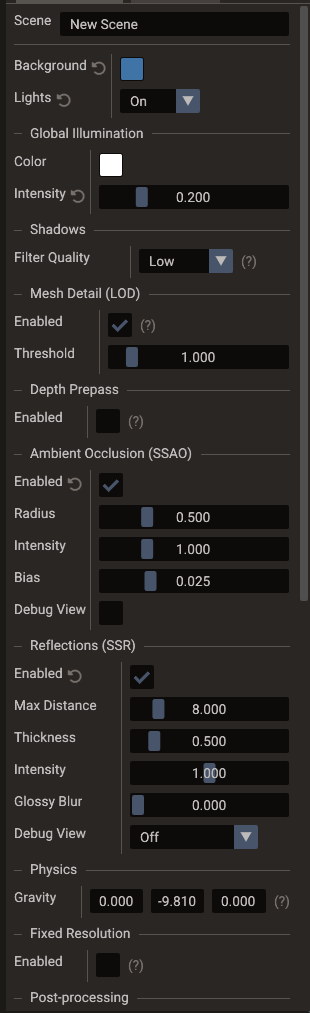
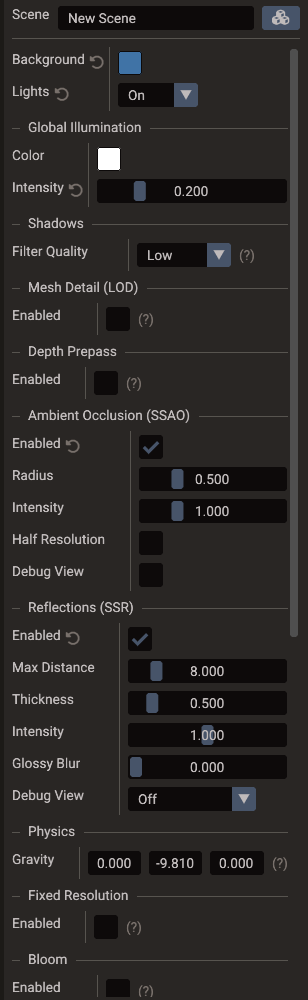
SSAO pages describe GTAO, without Bias, and a new scene settings screenshot

Changed region(s): [[0.0292, 0.0, 0.9935, 1.0]]

diff --git a/docs/manual/rendering-pipeline.md b/docs/manual/rendering-pipeline.md
@@ -453,18 +453,20 @@ light is naturally blocked. Like Godot, Unity, and Unreal, it modulates only the
 and spot lights is left untouched — so it reads as soft contact shading rather than a
 second shadow.
 
-Each frame the render system runs a small depth pre-pass for the main camera, derives
-occlusion from a rotated hemisphere kernel, blurs it, and the lit mesh shader multiplies
-the result into its ambient term. The blur leaves out samples across a depth edge, so
-occlusion stays on its own surface instead of haloing around silhouettes.
+The occlusion is ground truth ambient occlusion (GTAO). Each frame the render system runs
+a small depth pre-pass for the main camera. Along two screen directions per pixel, it finds
+the highest surface on each side within the radius, and the part of the hemisphere above
+those horizons, weighted toward the surface normal, is what stays lit. A 4×4 pattern turns
+the directions from pixel to pixel and a 4×4 blur combines them, leaving out samples across
+a depth edge, so occlusion stays on its own surface instead of haloing around silhouettes.
+The lit mesh shader multiplies the result into its ambient term.
 
 SSAO is a scene setting:
 
 ```cpp
 scene.setSSAOEnabled(true);
-scene.setSSAORadius(0.5f);     // view-space sampling radius (world units)
-scene.setSSAOIntensity(1.0f);  // strength (exponent on the occlusion factor)
-scene.setSSAOBias(0.025f);     // depth bias to avoid self-occlusion acne
+scene.setSSAORadius(0.5f);     // how far occluders count (world units)
+scene.setSSAOIntensity(1.0f);  // exponent on the visibility
 scene.setSSAOHalfResolution(true); // a quarter of the pixels, a little softer
 ```
 
@@ -472,19 +474,17 @@ scene.setSSAOHalfResolution(true); // a quarter of the pixels, a little softer
 scene.ssaoEnabled = true
 scene.ssaoRadius = 0.5
 scene.ssaoIntensity = 1.0
-scene.ssaoBias = 0.025
 scene.ssaoHalfResolution = true
 ```
 
 In the editor, the same controls live under **Scene → Ambient Occlusion (SSAO)** in the
 Properties window, including a **Debug View** toggle that renders the raw AO buffer so you
-can tune radius/intensity/bias directly.
+can tune radius and intensity directly.
 
 | Parameter | Effect |
 | --- | --- |
-| **Radius** | How far samples reach in view space — larger is broader/softer, smaller stays in tight creases |
-| **Intensity** | Darkening strength; raise to make occlusion more pronounced |
-| **Bias** | Pushes samples off the surface to stop flat areas self-occluding (acne) |
+| **Radius** | How far occluders count, in world units; they fade out over the last 30% of it. Larger is broader and softer, smaller stays in tight creases |
+| **Intensity** | Exponent on the visibility; raise it to make occlusion more pronounced. Around `2` comes closer to ray-traced AO |
 | **Half Resolution** | Computes and blurs the occlusion at half width and height, for about a quarter of the cost, and lit meshes upsample it. The depth pre-pass stays full size |
 
 Because the effect only touches ambient light, it is most visible with a strong ambient
@@ -497,7 +497,10 @@ scene lit mainly by direct light.
     reconstructed from depth when SSAO runs alone; when
     [SSR](#screen-space-reflections-ssr) is also enabled SSAO reuses the SSR G-buffer's
     depth **and** geometric normals — a single shared geometry pass, and sharper at
-    silhouettes. Enabling SSAO recompiles lit mesh shaders.
+    silhouettes. Enabling SSAO recompiles lit mesh shaders. The depth buffer has no
+    thickness, so occluders far in front of a surface count less, as if they were thin:
+    chair legs leave no dark halo on the floor behind them, and dense grass occludes less
+    than it really does.
 
 ## Screen-space reflections (SSR)
 
@@ -1273,6 +1276,7 @@ scene.depthPrepassEnabled = true
 | Render targets | Minimize framebuffer resolution for off-screen effects |
 | Mirrors | Each mirror re-renders the scene once per frame; keep one hero reflection and lower its target resolution if needed |
 | Water | Keep **Subdivisions** as low as the waves allow; Planar Reflection re-renders the scene and Refraction copies it once per frame |
+| SSAO | Adds a depth pre-pass (or reuses the SSR G-buffer) plus two fullscreen passes; **Half Resolution** runs them on a quarter of the pixels, the usual choice on integrated and mobile GPUs |
 | SSR | Adds a G-buffer geometry pass plus fullscreen march/blur/composite passes; lower **Max Steps** for cost, and it shares its geometry pass with SSAO when both are on |
 | Textures | Use compressed formats (ETC2/BC) on mobile/desktop respectively |
 

diff --git a/docs/reference/classes/scene.md b/docs/reference/classes/scene.md
@@ -51,7 +51,6 @@ A `Scene` is the root container for all objects, systems, and resources in a pro
 | bool | [ssaoEnabled](#ssaoenabled) | `false` | C++ \| Lua |
 | float | [ssaoRadius](#ssaoradius) | `0.5` | C++ \| Lua |
 | float | [ssaoIntensity](#ssaointensity) | `1.0` | C++ \| Lua |
-| float | [ssaoBias](#ssaobias) | `0.025` | C++ \| Lua |
 | bool | [ssaoHalfResolution](#ssaohalfresolution) | `false` | C++ \| Lua |
 | bool | [ssaoDebug](#ssaodebug) | `false` | C++ \| Lua |
 | bool | [ssrEnabled](#ssrenabled) | `false` | C++ \| Lua |
@@ -136,8 +135,6 @@ A `Scene` is the root container for all objects, systems, and resources in a pro
 | float | [getSSAORadius](#ssaoradius) | C++ |
 | void | [setSSAOIntensity](#ssaointensity) | C++ |
 | float | [getSSAOIntensity](#ssaointensity) | C++ |
-| void | [setSSAOBias](#ssaobias) | C++ |
-| float | [getSSAOBias](#ssaobias) | C++ |
 | void | [setSSAOHalfResolution](#ssaohalfresolution) | C++ |
 | bool | [isSSAOHalfResolution](#ssaohalfresolution) | C++ |
 | void | [setSSAODebug](#ssaodebug) | C++ |
@@ -494,7 +491,7 @@ it renders the scene, then the value saved on its
 * *Setter:* `void setSSAOEnabled(bool enabled)`
 * *Getter:* `bool isSSAOEnabled() const`
 
-Enables screen-space ambient occlusion. SSAO darkens the ambient/indirect lighting (IBL or global illumination) in creases and contact areas; it does not affect direct light. Toggling it recompiles lit mesh shaders. Applies to the main camera; terrain is currently excluded.
+Enables screen-space ambient occlusion, computed as ground truth ambient occlusion (GTAO). SSAO darkens the ambient/indirect lighting (IBL or global illumination) in creases and contact areas; it does not affect direct light. Toggling it recompiles lit mesh shaders. Applies to the main camera; terrain is currently excluded.
 
 ---
 
@@ -503,7 +500,7 @@ Enables screen-space ambient occlusion. SSAO darkens the ambient/indirect lighti
 * *Setter:* `void setSSAORadius(float radius)`
 * *Getter:* `float getSSAORadius() const`
 
-View-space sampling radius (world units). Larger values gather occlusion from farther surfaces (broader, softer AO); smaller values keep it to tight contact creases.
+How far occluders count, in world units; they fade out over the last 30% of it. Larger values gather occlusion from farther surfaces (broader, softer AO); smaller values keep it to tight contact creases. Default `0.5`.
 
 ---
 
@@ -512,16 +509,7 @@ View-space sampling radius (world units). Larger values gather occlusion from fa
 * *Setter:* `void setSSAOIntensity(float intensity)`
 * *Getter:* `float getSSAOIntensity() const`
 
-Strength of the effect, applied as an exponent on the occlusion factor — higher values darken occluded areas more.
-
----
-
-### ssaoBias
-
-* *Setter:* `void setSSAOBias(float bias)`
-* *Getter:* `float getSSAOBias() const`
-
-View-space depth bias that prevents self-occlusion artifacts (acne) on flat surfaces. Increase slightly if flat areas appear dirty; keep small to preserve fine contact detail.
+Strength of the effect, applied as an exponent on the visibility; higher values darken occluded areas more, and around `2` comes closer to ray-traced AO. Default `1.0`.
 
 ---
 

diff --git a/docs/manual/scenes-and-entities.md b/docs/manual/scenes-and-entities.md
@@ -148,7 +148,7 @@ Every scene owns rendering and interaction state that affects all entities withi
 | Shadow quality | PCF filtering level for smoother shadow edges (`NONE` to `HIGH`) |
 | Light state | `OFF`, `ON`, or `AUTO` (auto-detects lights in the scene) |
 | Global illumination | Ambient light color and intensity |
-| Ambient occlusion (SSAO) | Screen-space ambient occlusion — enable plus radius, intensity, and bias — see [Rendering Pipeline](rendering-pipeline.md#ambient-occlusion-ssao) |
+| Ambient occlusion (SSAO) | Screen-space ambient occlusion — enable plus radius, intensity, and half resolution — see [Rendering Pipeline](rendering-pipeline.md#ambient-occlusion-ssao) |
 | Reflections (SSR) | Screen-space reflections — enable plus distance, thickness, intensity, and glossy blur — see [Rendering Pipeline](rendering-pipeline.md#screen-space-reflections-ssr) |
 | Ambient light (2D) | Flat ambient color and intensity for 2D scenes, with its own 2D shadow quality — see [2D lighting](2d-graphics.md#2d-lighting) |
 | Physics gravity | Per-world gravity in m/s² — 2D (Box2D) and 3D (Jolt) are independent — see [Physics](physics.md#gravity) |
